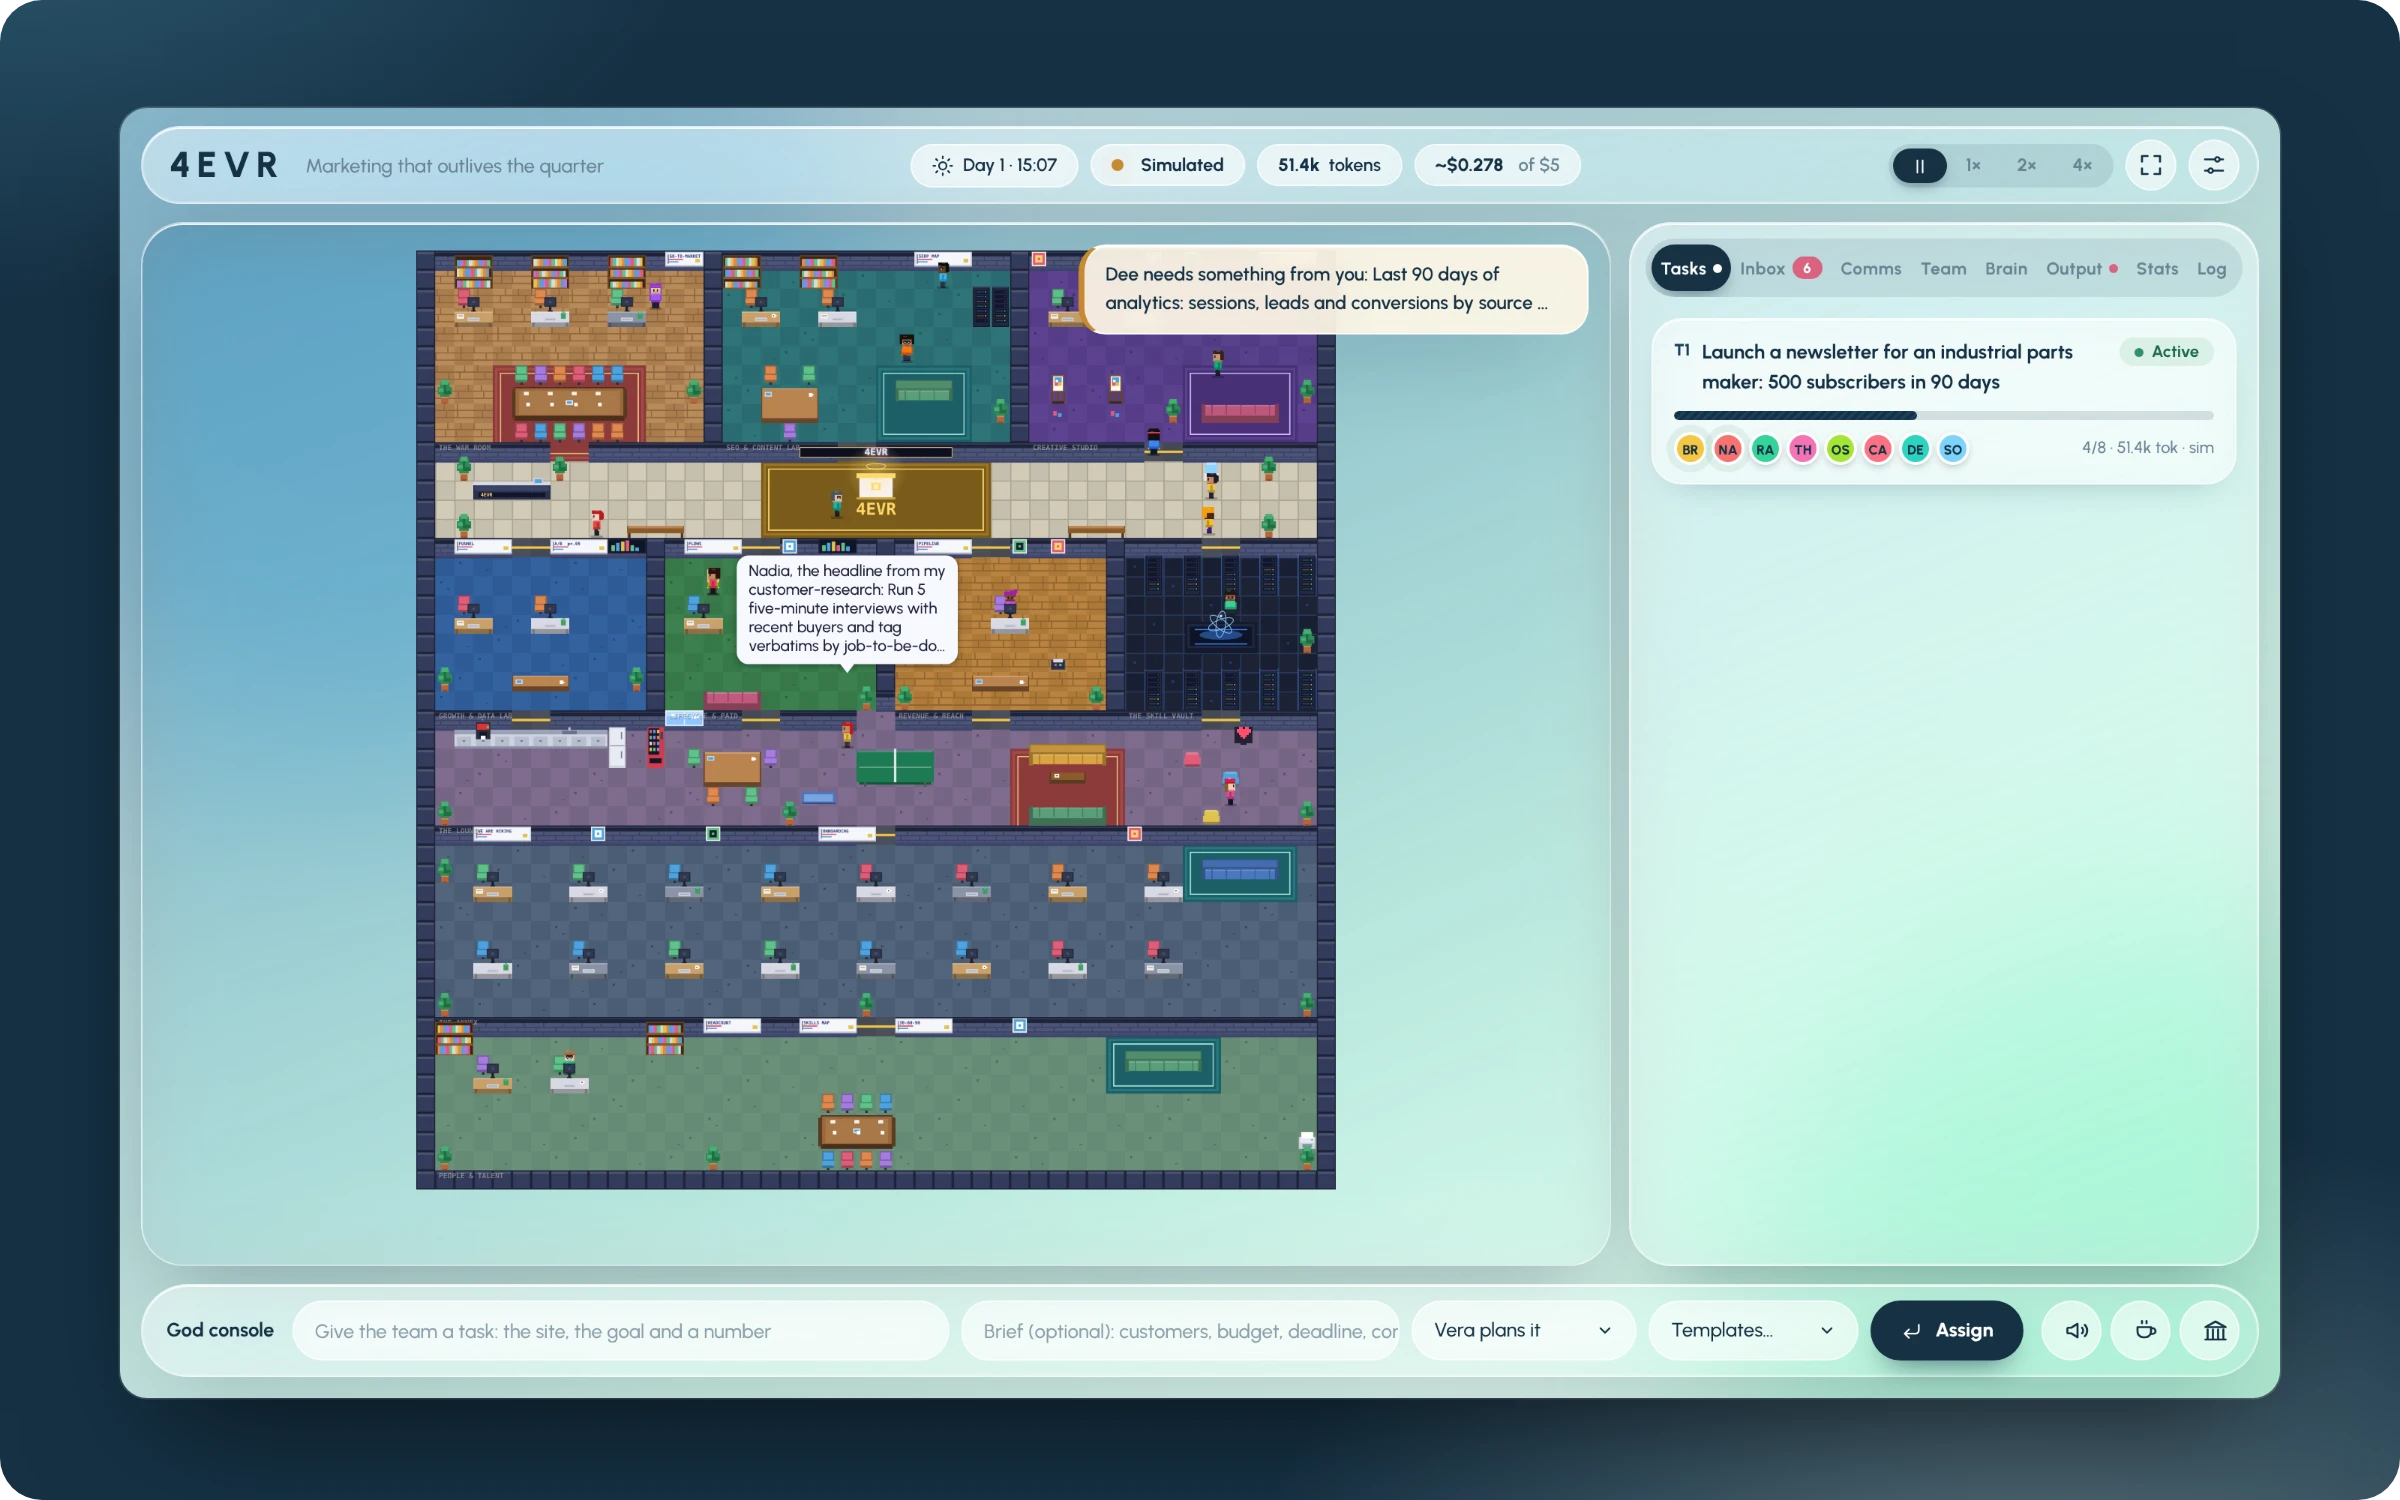
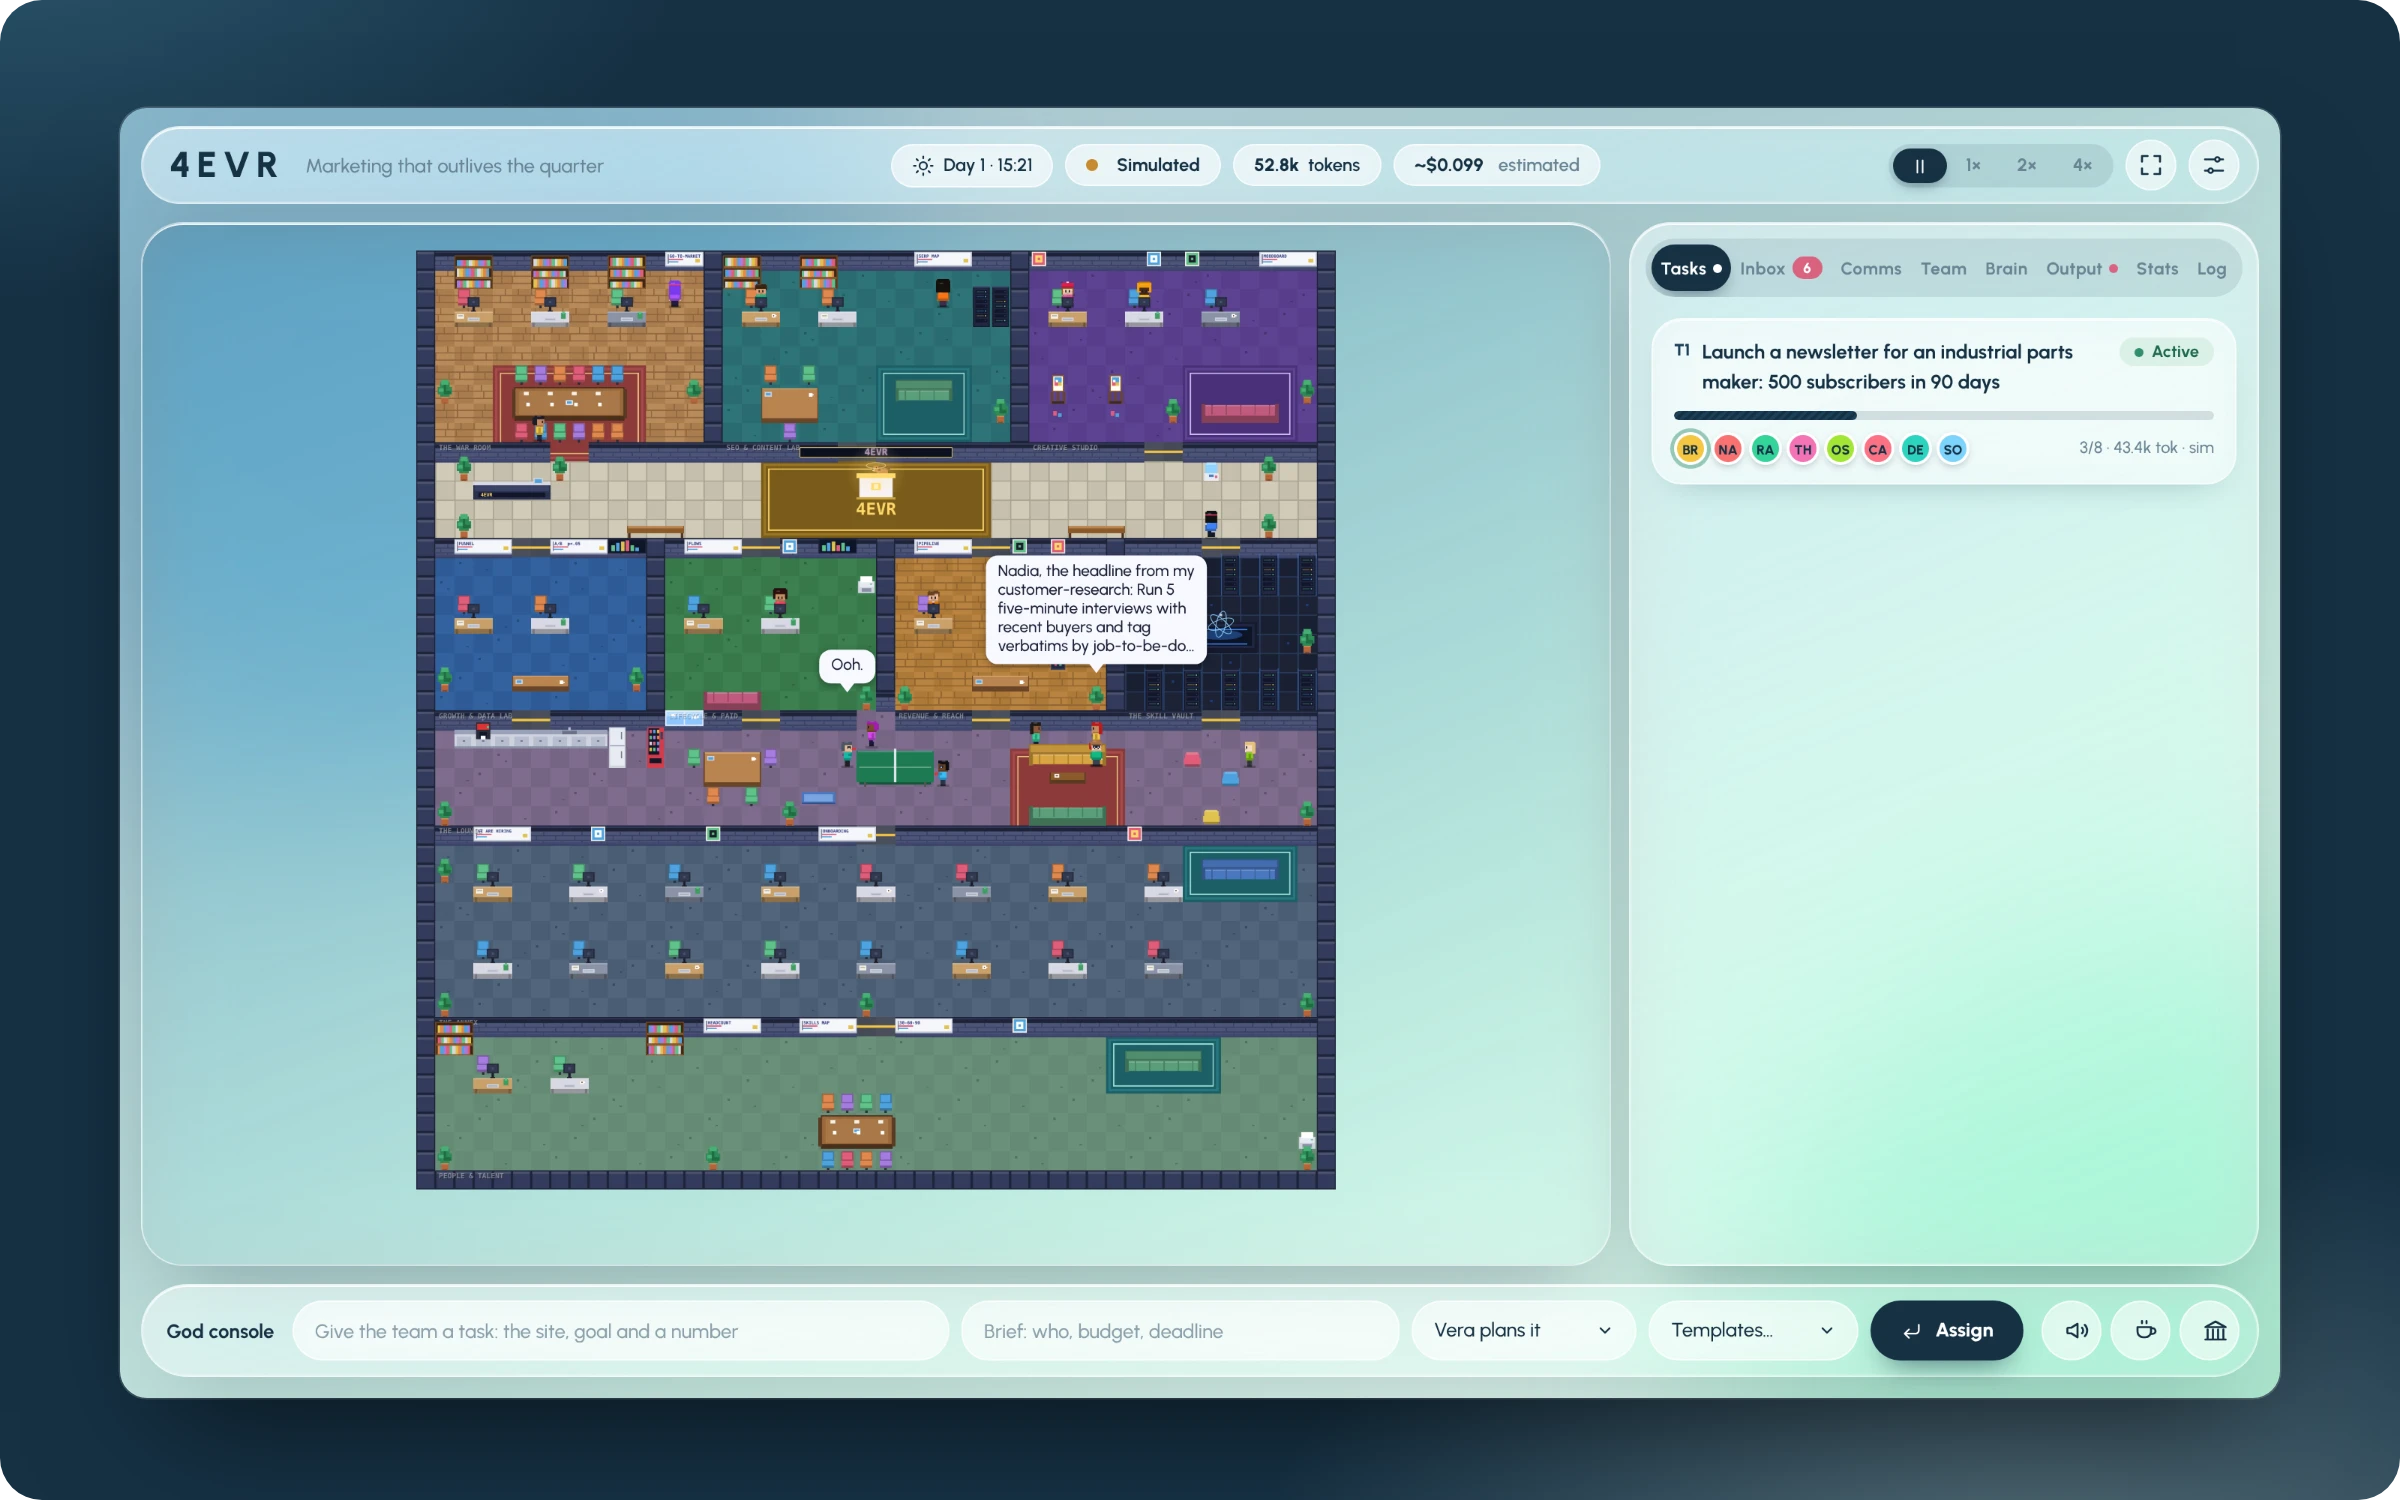
README: per-person models, Settings sections, fresh screenshots
Describe Models per person and the person-card model menu, correct the
budget-cap wording (real spend only), and recapture the hero and Inbox
images from the current app.

Claude-Session: https://claude.ai/code/session_01NyBgzKw4TnEgCEU1ndP63b

diff --git a/README.md b/README.md
@@ -79,7 +79,7 @@ Simulated mode shows everything working, but the writing comes from templates. F
   | Windows PowerShell | `$env:ANTHROPIC_API_KEY="sk-ant-..."; npm start` |
   | Windows Command Prompt | `set ANTHROPIC_API_KEY=sk-ant-... && npm start` |
 
-  API use is billed by Anthropic. The budget cap (default $5, changed in Settings or with `BUDGET_CAP_USD`) switches back to simulation when estimated spend reaches it.
+  API use is billed by Anthropic. The budget cap (default $5, changed in Settings or with `BUDGET_CAP_USD`) switches back to simulation when real spend reaches it; simulated runs never count against it.
 
 ### Updating
 
@@ -302,10 +302,11 @@ Run the agents through your signed-in `claude` command-line tool instead of an A
 
 A light, frosted-glass control room built to match a calm, high-contrast design language: deep blue `#1B405B`, navy `#163144`, mint `#DFF3EB` and white, set in Urbanist.
 
-- **The office.** Agents walk between workstations, the council table, the lounge and the People & Talent room as they work, consult and review. Click anyone to see their skills, memory, lessons, job description and reviews, or to talk to them. Scroll to zoom and drag to pan (pinch and drag on touch screens); `F` fits the office back to the screen.
+- **The office.** Agents walk between workstations, the council table, the lounge and the People & Talent room as they work, consult and review. Click anyone to see their skills, memory, lessons, job description and reviews, to talk to them, or to change their model. Scroll to zoom and drag to pan (pinch and drag on touch screens); `F` fits the office back to the screen.
 - **The panels.** Tasks (brief, meetings, decisions, hires, and Stop or Delete), Inbox (what agents need from you), Comms (every message, filtered by kind and task), Team (org chart, People & Talent), Brain (what the company has learned), Output (deliverables and workforce reports), Stats and Log. Only the Inbox shows a count, because only the Inbox is waiting on you; Tasks and Output show a small dot when something new arrives.
 - **The console.** Give the team a task with an optional brief, hand it to the CMO or to one person, or start from a template. The three icons on the right announce to the office, call a coffee round and call a town hall; hover any icon for what it does.
-- **Settings.** Three sections: *How the agents run* (simulated, API key or Claude account, the model, the connection test and connectors), *How the team behaves* (collaboration, hiring and learning) and *Skills libraries* (check for updates, apply, skip or roll back).
+- **Settings.** Four sections: *How the agents run* (simulated, API key or Claude account, the default model, the budget cap, the connection test and connectors), *Models per person* (everyone's model in one list, Sonnet at most), *How the team behaves* (collaboration, hiring and learning) and *Skills libraries* (check for updates, apply, skip or roll back).
+- **Person cards.** Click anyone in the office for their skills, memory, lessons and reviews, a chat box, and a **Model** menu with the reason their model was suggested.
 - **Detail.** One icon set drawn on a single grid, sentence-case labels, plain-language status lines, and empty states that say what to do next.
 - **Motion.** Panels and cards ease in, the tab selector slides, progress bars animate, metric tiles count up, and all of it respects the system reduced-motion setting.
 - **Theming.** Every colour and the glass effect are variables at the top of `public/styles.css`. There is no build step and no image assets; icons are inline SVG in `public/js/icons.js`.
